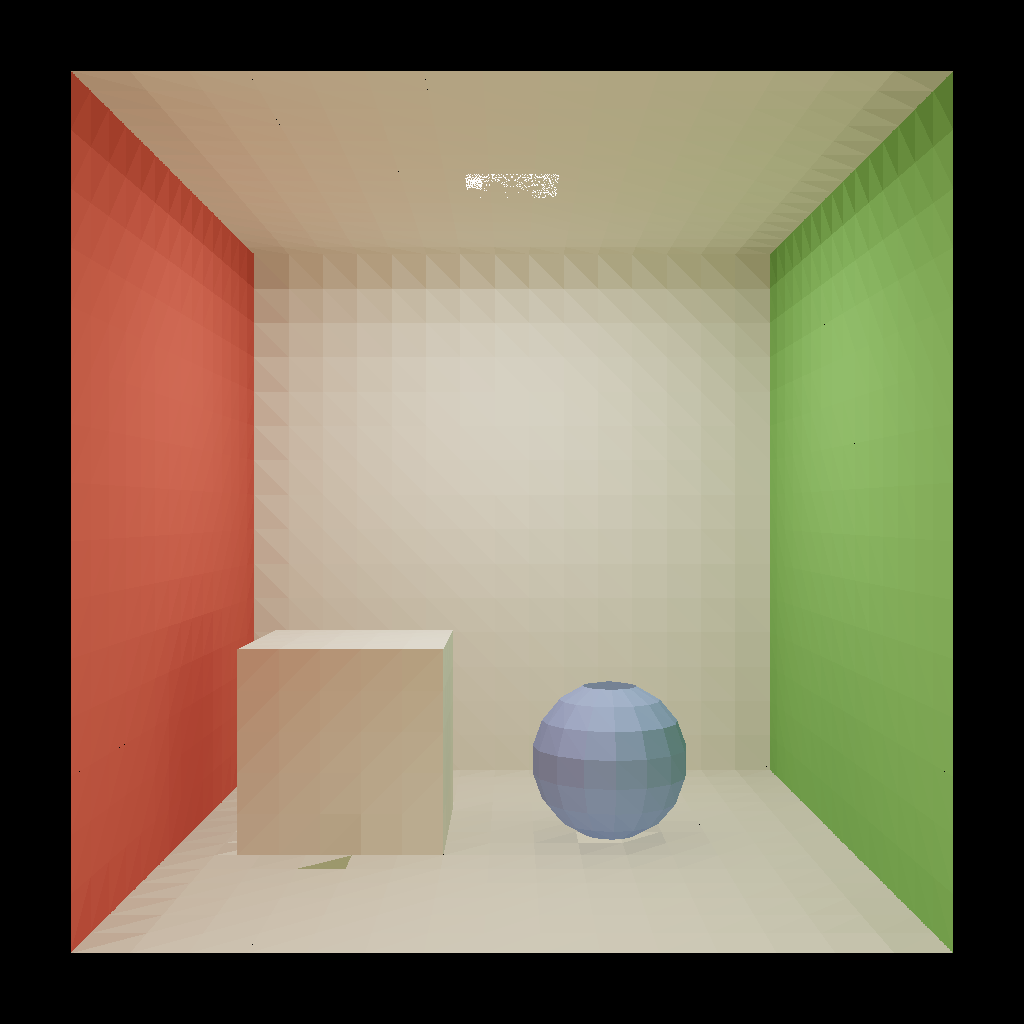
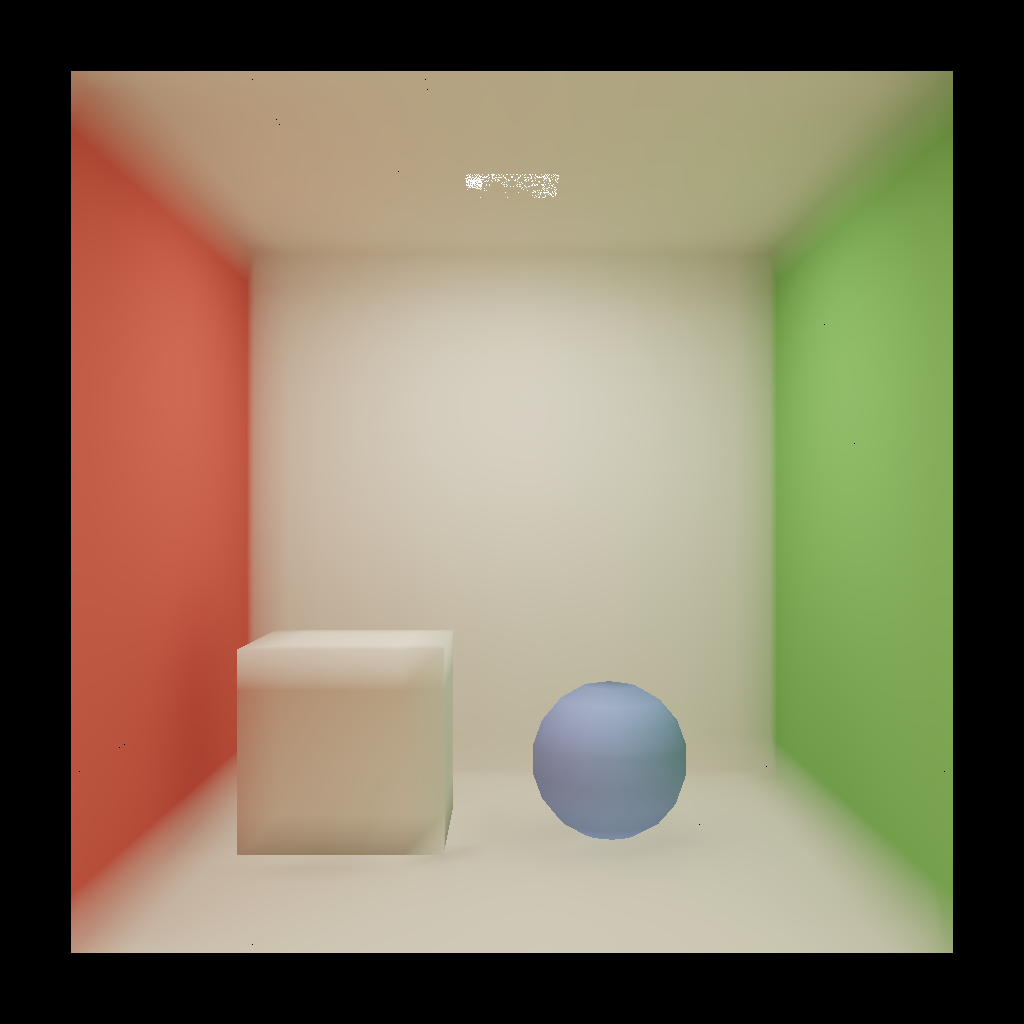
add rayon for CPU side

diff --git a/src/render.rs b/src/render.rs
@@ -15,9 +15,11 @@
 //! standard sRGB transfer function.
 
 use std::collections::HashMap;
+use std::sync::atomic::{AtomicU32, Ordering};
 
 use anyhow::Result;
 use image::{ImageBuffer, Rgb};
+use rayon::prelude::*;
 
 use crate::scene::ScenePatch;
 
@@ -207,81 +209,98 @@ pub fn render_to_png(
         .max(1.0);
 
     let ro = camera.eye;
-    let mut img: ImageBuffer<Rgb<u8>, Vec<u8>> = ImageBuffer::new(width, height);
 
-    for py in 0..height {
-        for px in 0..width {
-            let rd = camera.ray_dir(px, py);
+    // Pre-allocate the pixel buffer: width * height * 3 bytes (RGB).
+    // Rows are computed in parallel; each row owns a disjoint slice of the
+    // buffer so no locking is required.
+    let mut pixels = vec![0u8; (width * height * 3) as usize];
+    let rows_done  = AtomicU32::new(0);
 
-            // Find the nearest hit, recording hit-triangle index and the
-            // Moller-Trumbore barycentric coordinates (u, v).
-            let mut best_t    = f32::INFINITY;
-            let mut best_idx  = usize::MAX;
-            let mut best_u    = 0.0f32;
-            let mut best_v    = 0.0f32;
-            // Indicates the reverse-winding test produced the best hit.
-            let mut best_flip = false;
+    pixels
+        .par_chunks_mut((width * 3) as usize)
+        .enumerate()
+        .for_each(|(py, row_buf)| {
+            for px in 0..width {
+                let rd = camera.ray_dir(px, py as u32);
 
-            for (i, patch) in patches.iter().enumerate() {
-                // Test the triangle's natural winding first.
-                if let Some((t, u, v)) = moller_trumbore(ro, rd, patch.v0, patch.v1, patch.v2) {
-                    if t < best_t {
-                        best_t    = t;
-                        best_idx  = i;
-                        best_u    = u;
-                        best_v    = v;
-                        best_flip = false;
+                // Find the nearest hit, recording hit-triangle index and the
+                // Moller-Trumbore barycentric coordinates (u, v).
+                let mut best_t    = f32::INFINITY;
+                let mut best_idx  = usize::MAX;
+                let mut best_u    = 0.0f32;
+                let mut best_v    = 0.0f32;
+                // Indicates the reverse-winding test produced the best hit.
+                let mut best_flip = false;
+
+                for (i, patch) in patches.iter().enumerate() {
+                    // Test the triangle's natural winding first.
+                    if let Some((t, u, v)) = moller_trumbore(ro, rd, patch.v0, patch.v1, patch.v2) {
+                        if t < best_t {
+                            best_t    = t;
+                            best_idx  = i;
+                            best_u    = u;
+                            best_v    = v;
+                            best_flip = false;
+                        }
+                    }
+                    // Test the reverse winding: the OBJ normals point inward, so
+                    // patches whose normal faces away from the eye are hit only via
+                    // this path.
+                    if let Some((t, u, v)) = moller_trumbore(ro, rd, patch.v2, patch.v1, patch.v0) {
+                        if t < best_t {
+                            best_t    = t;
+                            best_idx  = i;
+                            best_u    = u;
+                            best_v    = v;
+                            best_flip = true;
+                        }
                     }
                 }
-                // Test the reverse winding: the OBJ normals point inward, so
-                // patches whose normal faces away from the eye are hit only via
-                // this path.
-                if let Some((t, u, v)) = moller_trumbore(ro, rd, patch.v2, patch.v1, patch.v0) {
-                    if t < best_t {
-                        best_t    = t;
-                        best_idx  = i;
-                        best_u    = u;
-                        best_v    = v;
-                        best_flip = true;
-                    }
-                }
-            }
 
-            let best_rgb = if best_idx < patches.len() {
-                let [vi0, vi1, vi2] = patch_vi[best_idx];
+                let best_rgb = if best_idx < patches.len() {
+                    let [vi0, vi1, vi2] = patch_vi[best_idx];
 
-                // Barycentric weights for the three vertices.
-                //
-                // Natural winding (v0, v1, v2): u -> v1, v -> v2, 1-u-v -> v0.
-                // Flipped winding  (v2, v1, v0): MT's "v1" is original v1
-                // (unchanged), "v2" is original v0, "v0" is original v2.
-                // So: u -> vi1, v -> vi0, 1-u-v -> vi2.
-                let (w0, w1, w2) = if best_flip {
-                    (best_v, best_u, 1.0 - best_u - best_v)
+                    // Barycentric weights for the three vertices.
+                    //
+                    // Natural winding (v0, v1, v2): u -> v1, v -> v2, 1-u-v -> v0.
+                    // Flipped winding  (v2, v1, v0): MT's "v1" is original v1
+                    // (unchanged), "v2" is original v0, "v0" is original v2.
+                    // So: u -> vi1, v -> vi0, 1-u-v -> vi2.
+                    let (w0, w1, w2) = if best_flip {
+                        (best_v, best_u, 1.0 - best_u - best_v)
+                    } else {
+                        (1.0 - best_u - best_v, best_u, best_v)
+                    };
+
+                    let r0 = vert_rad[vi0];
+                    let r1 = vert_rad[vi1];
+                    let r2 = vert_rad[vi2];
+                    [
+                        w0 * r0[0] + w1 * r1[0] + w2 * r2[0],
+                        w0 * r0[1] + w1 * r1[1] + w2 * r2[1],
+                        w0 * r0[2] + w1 * r1[2] + w2 * r2[2],
+                    ]
                 } else {
-                    (1.0 - best_u - best_v, best_u, best_v)
+                    [0.0f32; 3]
                 };
 
-                let r0 = vert_rad[vi0];
-                let r1 = vert_rad[vi1];
-                let r2 = vert_rad[vi2];
-                [
-                    w0 * r0[0] + w1 * r1[0] + w2 * r2[0],
-                    w0 * r0[1] + w1 * r1[1] + w2 * r2[1],
-                    w0 * r0[2] + w1 * r1[2] + w2 * r2[2],
-                ]
-            } else {
-                [0.0f32; 3]
-            };
+                let [r, g, b] = to_srgb(best_rgb, white);
+                let base = (px * 3) as usize;
+                row_buf[base]     = r;
+                row_buf[base + 1] = g;
+                row_buf[base + 2] = b;
+            }
 
-            let [r, g, b] = to_srgb(best_rgb, white);
-            img.put_pixel(px, py, Rgb([r, g, b]));
-        }
+            // Progress reporting: print every 64 completed rows.
+            let done = rows_done.fetch_add(1, Ordering::Relaxed) + 1;
+            if done % 64 == 0 || done == height {
+                eprintln!("  {done}/{height} rows done");
+            }
+        });
 
-        if py % 64 == 0 {
-            eprintln!("  row {py}/{height}");
-        }
-    }
+    let img: ImageBuffer<Rgb<u8>, Vec<u8>> =
+        ImageBuffer::from_raw(width, height, pixels)
+            .expect("pixel buffer dimensions match image size");
 
     img.save(output_path)
         .map_err(|e| anyhow::anyhow!("saving PNG: {e}"))?;

diff --git a/ff-kernel/src/main.rs b/ff-kernel/src/main.rs
@@ -330,12 +330,19 @@ fn compute_form_factor(pi: &Patch, pj: &Patch) -> f32 {
     let dy = pj.centroid[1] - pi.centroid[1];
     let dz = pj.centroid[2] - pi.centroid[2];
 
-    let r2 = dx * dx + dy * dy + dz * dz;
-    if r2 < 1.0e-8 {
+    let r2_raw = dx * dx + dy * dy + dz * dz;
+    if r2_raw < 1.0e-8 {
         return 0.0;
     }
 
-    let r  = sqrt_f32(r2);
+    // The point-to-point form factor F = cos_i * cos_j / (pi * r^2) * A_j
+    // diverges as r -> 0.  The approximation is only valid when r >> sqrt(A).
+    // Clamp r^2 to the larger patch area: this caps F at a physically
+    // reasonable value and eliminates the near-field speckle artefact near
+    // the light source without affecting well-separated patch pairs.
+    let r2 = r2_raw.max(pi.area.max(pj.area));
+
+    let r  = sqrt_f32(r2_raw);   // raw distance for direction normalisation
     let nx = dx / r;
     let ny = dy / r;
     let nz = dz / r;
